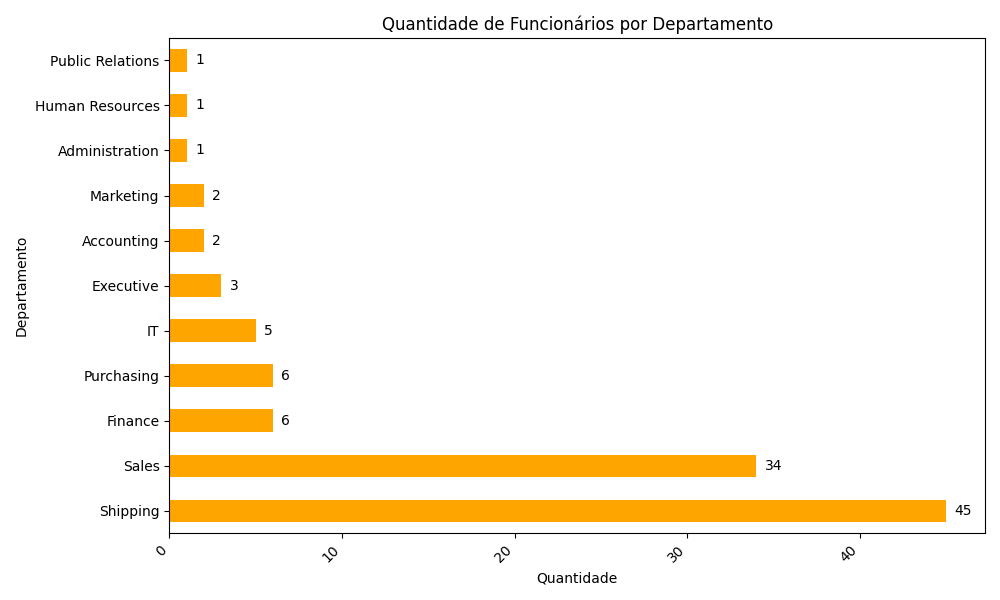
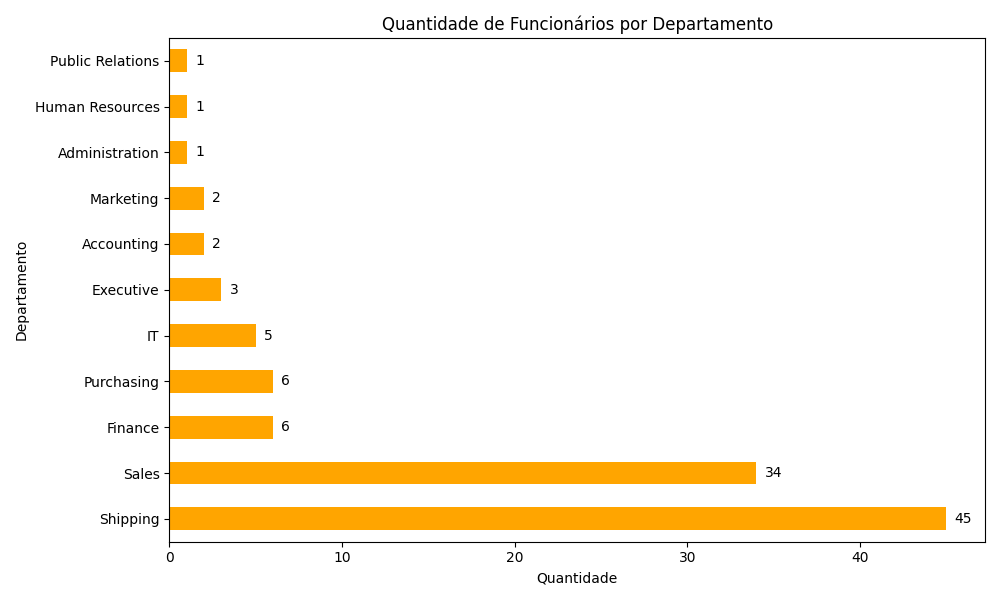
refatora conclusoes dinamicas

diff --git a/projeto_final_s1.py b/projeto_final_s1.py
@@ -209,8 +209,6 @@ plt.title("Salário Médio por Departamento")
 plt.ylabel("Departamento")
 plt.xlabel("Salário Médio")
 
-plt.xticks(rotation=45, ha="right")
-
 plt.tight_layout()
 
 plt.savefig("graficos/salario_medio_departamento.png")
@@ -231,8 +229,6 @@ for i, v in enumerate(funcionarios_departamento):
 plt.title("Quantidade de Funcionários por Departamento")
 plt.ylabel("Departamento")
 plt.xlabel("Quantidade")
-
-plt.xticks(rotation=45, ha="right")
 
 plt.tight_layout()
 
@@ -309,12 +305,18 @@ print("\n" + "=" * 60)
 print("CONCLUSÕES DA ANÁLISE")
 print("=" * 60)
 
-print("- Foram analisados 106 funcionários da base HR.")
+print(f"- Foram analisados {quantidade} funcionários da base HR.")
 print(f"- O salário médio encontrado foi de R$ {media:.2f}.")
 print(f"- O maior salário foi de R$ {maior} e o menor de R$ {menor}.")
-print("- O departamento Executive apresentou a maior média salarial.")
+
+departamento_maior = salario_departamento.idxmax()
+print(f"- O departamento {departamento_maior} apresentou a maior média salarial.")
+
 print("- O departamento Shipping concentra a maior quantidade de funcionários.")
-print("- A maior parte dos funcionários está localizada na região Americas.")
+
+regiao_maior = funcionarios_regiao.idxmax()
+print(f"- A maior parte dos funcionários está localizada na região {regiao_maior}.")
+
 print("- Foi identificado apenas um valor nulo na coluna STATE_PROVINCE.")
 print("- Não foram encontrados registros duplicados.")
 